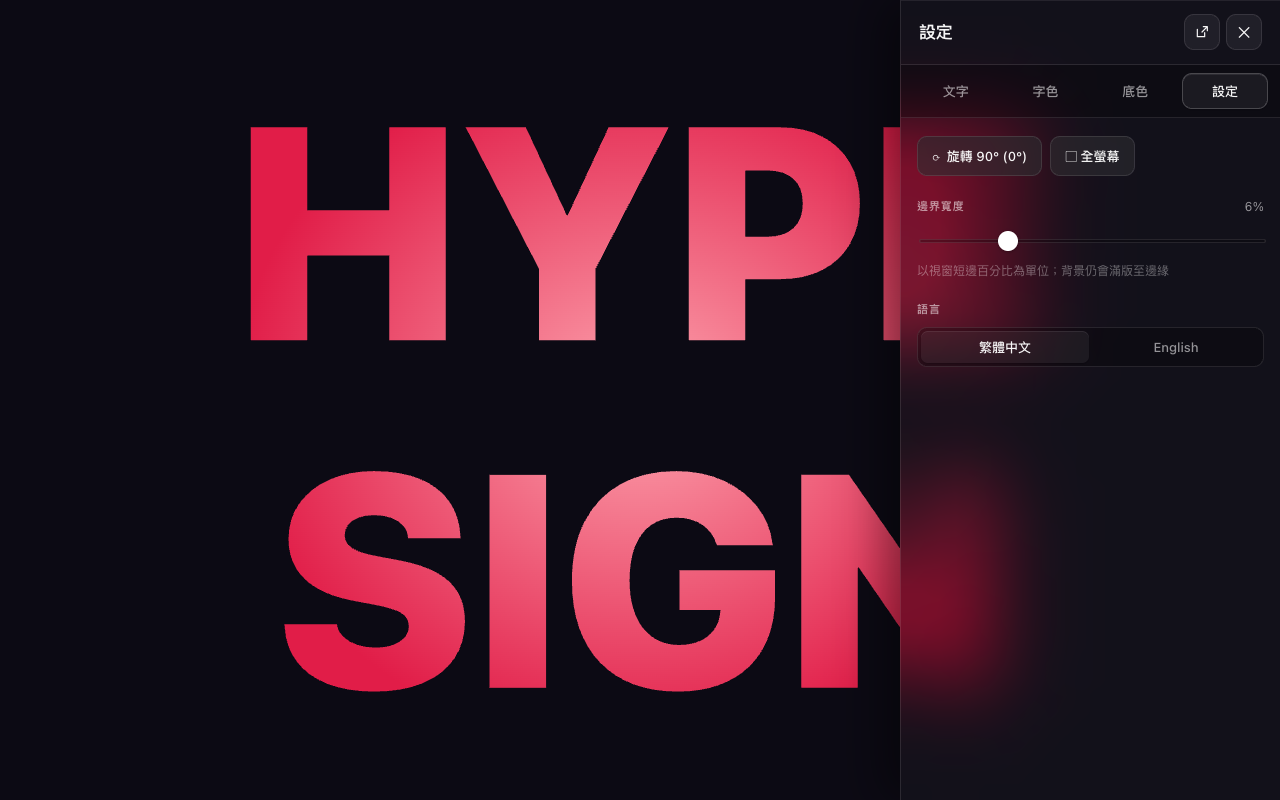
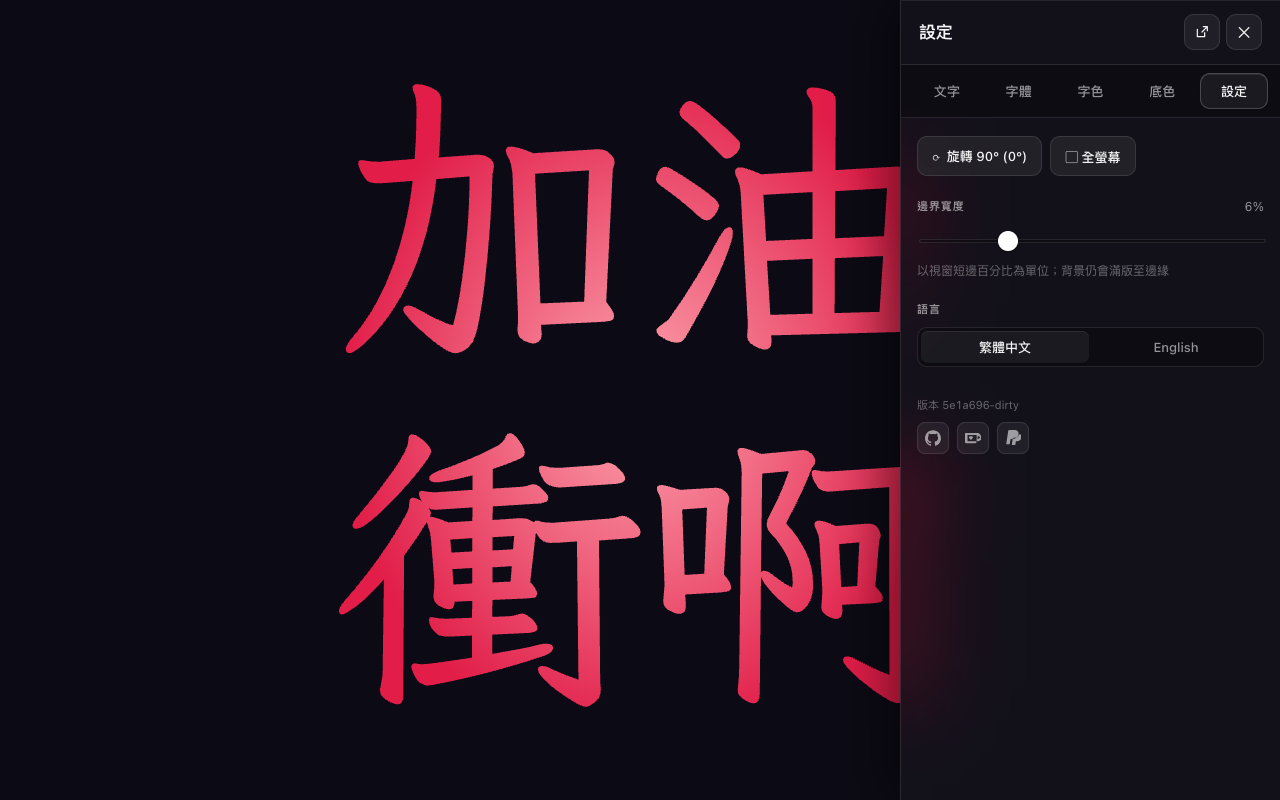
docs: redesign screenshot gallery for the Font tab + tighten deploy ignore
Squashed work covering the README screenshot gallery, the hero gif
animation, and the deploy workflow's paths-ignore filter.

README gallery:
- Adds two new scenes (panel-font, mobile-font) showcasing the picker
  rows + bundled-vs-system divider.
- Drops the redundant panel-edit-mode and mobile-tint scenes.
- Most non-panel-text scenes now select a non-default typeface (Noto
  Serif TC for the gradient editor and rotated-Settings shots, LXGW
  WenKai TC for the Font tab and zh language demo, Atkinson Hyperlegible
  for the floating panel and en language demo) so the gallery shows off
  the curated typeface variety. Total count remains 1 hero gif + 10 PNGs.

Hero gif:
- Slows the marquee from 380 → 600 px/s so the text reads comfortably.
- Trims output to **exactly one marquee loop** so the gif's first and
  last frame land on identical x positions (seamless playback). Loop
  length is computed at capture time from live geometry: loopMs =
  (sizeW + scaledWidth) / speed; capture runs loopMs + 500ms buffer,
  ffmpeg -t loopMs trims to exactly one cycle.
- Encodes at 20 fps (integer divisor of native 60 fps) to avoid the
  uneven frame stride the previous 28→15 fps non-integer downsample
  produced. File lands at ~2.3 MB.

CI:
- paths-ignore now also excludes scripts/** and .gitignore. The previous
  filter only covered **.md / docs/** / LICENSE / .claude/**, so commits
  touching only the screenshot capture driver kept triggering production
[…]

Changed region(s): [[0.1875, 0.0938, 0.9688, 0.4688], [0.2188, 0.5, 0.8125, 0.9062]]

diff --git a/SPEC.md b/SPEC.md
@@ -389,16 +389,15 @@ To fork under a different repo name: change `base` in `vite.config.ts` and `star
 
 `scripts/capture-screenshots.cjs` is a self-contained Puppeteer driver that produces every image in `docs/screenshots/`:
 
-- `hero.gif` — 720×360 marquee at 15fps (3s loop), encoded via ffmpeg two-pass palette (`palettegen` + `paletteuse=dither=bayer:bayer_scale=5`). Source frames captured via CDP `Page.startScreencast` at `everyNthFrame: 2` (~30fps native), then downsampled at encode time to keep file size under 2 MB.
-- 10 PNGs covering panel + canvas + bilingual + mobile:
-  - Desktop with panel open: `panel-text` (Text tab, multi-line auto-fit + font weight slider), `panel-tint` (Tint tab gradient editor with stops bar + sliders), `panel-floating` (Floating mode + Backdrop tab — draggable window with shadow + bottom resize handle), `panel-presets` (Tint tab scrolled to preset list with 6 saved single-color presets), `panel-rotated` (Settings tab + canvas rotated 90°).
-  - Desktop without panel: `cheer-board` (the only no-panel scene; bright yellow + black 加油! showing the iconic cheering-board look once the panel is dismissed).
-  - Mobile bottom sheet: `mobile-text` (Text tab with top resize handle visible), `mobile-tint` (gradient editor on small screen).
-  - Bilingual: `drawer-zh` / `drawer-en` (Settings tab paired side-by-side in README to show i18n parity without image-compositing tools at build time).
+- `hero.gif` — 720×360 marquee at 20fps, trimmed to **exactly one marquee loop** so the first and last frame land on identical x positions (seamless GIF playback). The loop length is computed at capture time from live marquee geometry: `loopMs = (sizeW + scaledWidth) / HERO_STATE.marqueeSpeed * 1000`, where `sizeW` is `.display-root` offsetWidth and `scaledWidth` is the marquee SVG's `width` attribute. Capture runs for `loopMs + 500ms` (small buffer for setTimeout jitter), then ffmpeg `-t loopMs` trims output to exactly one loop. Encoded via ffmpeg two-pass palette (`palettegen` + `paletteuse=dither=bayer:bayer_scale=5`); source frames captured via CDP `Page.startScreencast` at `everyNthFrame: 1` (native ~60fps), 60→20fps integer 3:1 stride so frames drop evenly. Typical file size lands around ~2.5 MB; the README budget for the hero is 5 MB.
+- 10 PNGs covering panel + bilingual + mobile, with most scenes selecting a non-default font (Noto Serif TC, LXGW WenKai TC, Atkinson) so the gallery shows off the curated typeface variety:
+  - Desktop with panel open: `panel-text` (Text tab, multi-line auto-fit), `panel-font` (Font tab, picker rows showing each typeface's character + bundled-vs-system divider), `panel-tint` (Tint tab gradient editor with stops bar + sliders), `panel-floating` (Floating mode + Backdrop tab — draggable window with shadow + bottom resize handle), `panel-presets` (Tint tab scrolled to preset list with 6 saved single-color presets), `panel-rotated` (Settings tab + canvas rotated 90°).
+  - Mobile bottom sheet: `mobile-text` (Text tab with top resize handle visible), `mobile-font` (Font tab with picker rows visible).
+  - Bilingual: `drawer-zh` (LXGW WenKai TC for a Chinese calligraphy demo) / `drawer-en` (Atkinson Hyperlegible for a Latin demo) — paired side-by-side in README to show i18n parity without image-compositing tools at build time.
 
 Pipeline:
 1. Spawn vite dev server (`npx vite --port 5173 --strictPort`), wait for `Local:` log.
-2. Per scene: open a fresh `puppeteer.newPage()`, register `evaluateOnNewDocument` that writes `localStorage['hype-sign:v1'] = { state, version: 3 }` so zustand's persist middleware rehydrates from it on first load. Each scene's seed state includes the new persisted fields (`panelMode`, `floatingPos`, `mobilePanelHeight`, `floatingHeight`).
+2. Per scene: open a fresh `puppeteer.newPage()`, register `evaluateOnNewDocument` that writes `localStorage['hype-sign:v1'] = { state, version: 4 }` so zustand's persist middleware rehydrates from it on first load. Each scene's seed state includes every persisted field (`panelMode`, `floatingPos`, `mobilePanelHeight`, `floatingHeight`, `font`).
 3. `goto` + `waitForSelector('.display-root')` + 600ms settle (lets `StaticDisplay`'s `useLayoutEffect` getBBox run).
 4. For drawer-open scenes: `page.click('.display-root')` triggers the canvas-click toggle (the new UX — there is no gear button anymore), wait 450ms for the slide animation, click the target tab in `.drawer-tabs`. The `panel-presets` scene additionally scrolls `.drawer-body` to its bottom so the saved-preset rows are in frame. For canvas-only scenes: inject `.drawer { display: none !important }` to hide the closed-state shadow / border so it doesn't bleed into the canvas.
 5. `page.screenshot({ path, type: 'png' })`.

diff --git a/CLAUDE.md b/CLAUDE.md
@@ -36,7 +36,7 @@ See [SPEC.md](SPEC.md).
 GitHub Actions on push to `main` → GitHub Pages (skips docs-only pushes via `paths-ignore`). Live at `https://lab.howar31.com/hype-sign/`. Vite `base` is `/hype-sign/`; manifest `scope` and `start_url` match. Repo is MIT-licensed (root `LICENSE`).
 
 ## Tooling
-- README screenshots + hero gif live in `docs/screenshots/`. Regenerate with `nvm use 18 && NODE_PATH=$(npm root -g) node scripts/capture-screenshots.cjs` (Puppeteer headless + ffmpeg palette encode). Add `--only=<id>` to recapture a single scene. Scenes (state seeded via `localStorage hype-sign:v1` at version 3) are defined inline in the script. Current set: 1 hero gif + 10 PNGs (`panel-text`, `panel-tint`, `panel-floating`, `panel-presets`, `panel-rotated`, `panel-edit-mode`, `mobile-text`, `mobile-tint`, `drawer-zh`, `drawer-en`). Drawer-open scenes use `page.click('.display-root')` to trigger the canvas-toggle UX (no gear button); `editMode: true` scenes click the Edit button after tab switch + scroll. No canvas-only scenes remain.
+- README screenshots + hero gif live in `docs/screenshots/`. Regenerate with `nvm use 18 && NODE_PATH=$(npm root -g) node scripts/capture-screenshots.cjs` (Puppeteer headless + ffmpeg palette encode). Add `--only=<id>` to recapture a single scene. Scenes (state seeded via `localStorage hype-sign:v1` at version 4) are defined inline in the script. Current set: 1 hero gif + 10 PNGs (`panel-text`, `panel-font`, `panel-tint`, `panel-floating`, `panel-presets`, `panel-rotated`, `mobile-text`, `mobile-font`, `drawer-zh`, `drawer-en`). Most non-`panel-text` scenes pick a non-default font (Noto Serif TC, LXGW WenKai TC, Atkinson) so the gallery shows off the curated typeface variety. Drawer-open scenes use `page.click('.display-root')` to trigger the canvas-toggle UX (no gear button); `editMode: true` scenes click the Edit button after tab switch + scroll. No canvas-only scenes remain.
 - Smoke suite at `scripts/smoke.cjs` (run via `npm run smoke`). Covers: layout integrity, static + marquee rotation centering (measures `<svg text>` ink rect, NOT the SVG container — see `reference_ios_pwa_layout.md` for why), panel modes, drag clamps, settings actions, color stop-bar axis, preset edit mode (toggle, reorder, delete, auto-exit), persistence + v2→v3 migration, i18n key parity, console-error detection, plus visual snapshots. Each test isolates state by clearing `localStorage` in the page setup.
 
 ## Files where decisions live

diff --git a/README.md b/README.md
@@ -48,19 +48,19 @@ A fully-offline cheering board / LED display PWA. Multi-color gradients, marquee
 
 ### Desktop
 
-| Text tab — multi-line + font weight | Tint tab — gradient editor | Floating panel — backdrop |
+| Text tab — multi-line auto-fit | Font tab — picker with curated faces | Tint tab — gradient editor |
 |---|---|---|
-| ![](docs/screenshots/panel-text.png) | ![](docs/screenshots/panel-tint.png) | ![](docs/screenshots/panel-floating.png) |
+| ![](docs/screenshots/panel-text.png) | ![](docs/screenshots/panel-font.png) | ![](docs/screenshots/panel-tint.png) |
 
-| Color preset library | Edit mode — reorder + delete | Rotation + Settings tab |
+| Floating panel — backdrop | Color preset library | Rotation + Settings tab |
 |---|---|---|
-| ![](docs/screenshots/panel-presets.png) | ![](docs/screenshots/panel-edit-mode.png) | ![](docs/screenshots/panel-rotated.png) |
+| ![](docs/screenshots/panel-floating.png) | ![](docs/screenshots/panel-presets.png) | ![](docs/screenshots/panel-rotated.png) |
 
 ### Mobile
 
-| Bottom sheet — Text tab (top resize handle) | Bottom sheet — gradient editor |
+| Bottom sheet — Text tab (top resize handle) | Bottom sheet — Font tab |
 |---|---|
-| ![](docs/screenshots/mobile-text.png) | ![](docs/screenshots/mobile-tint.png) |
+| ![](docs/screenshots/mobile-text.png) | ![](docs/screenshots/mobile-font.png) |
 
 ### Bilingual
 
